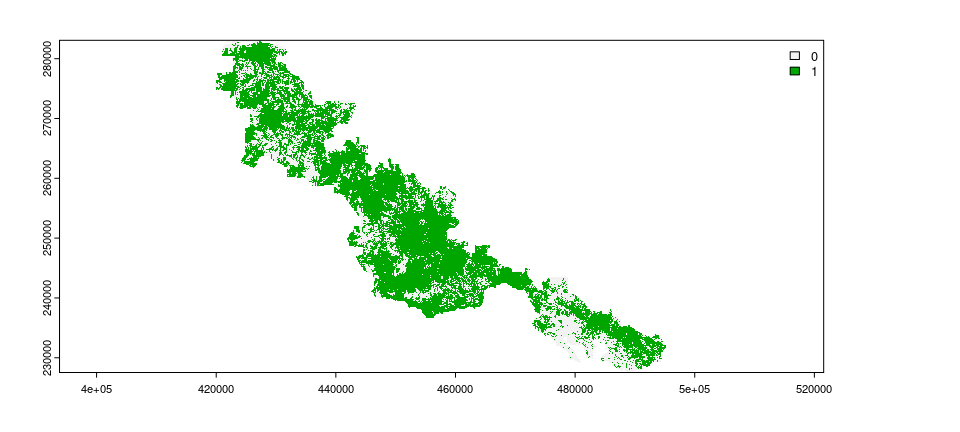
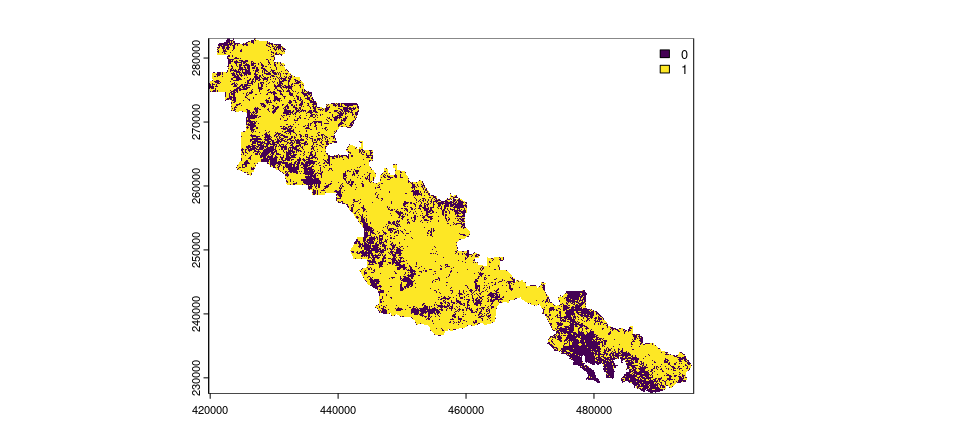
Update README and actions

diff --git a/README.md b/README.md
@@ -15,6 +15,7 @@ Status](https://codecov.io/github/dimitri-justeau/restoptr/coverage.svg?branch=m
 [![Downloads](https://cranlogs.r-pkg.org/badges/restoptr)](https://CRAN.R-project.org/package=restoptr)
 
 <p id="logo-credit" align="right">
+
 Logo by Camille Salmon
 </p>
 
@@ -289,6 +290,7 @@ print(problem)
     ## ----------------------------------------------------------------- 
     ## original habitat:     habitat_hi_res.tif 
     ## aggregation factor:   16 
+    ## aggregation method:   lossy 
     ## habitat threshold:    0.7 
     ## existing habitat:     in memory 
     ## restorable habitat:   in memory 
@@ -319,7 +321,7 @@ existing habitat, or (`3`) selected as a priority area for restoration.
 solution <- solve(problem)
 ```
 
-    ## Good news: the solver found 1 solution statisfying the constraints that was proven optimal ! (solving time = 0.97 s)
+    ## Good news: the solver found 1 solution statisfying the constraints that was proven optimal ! (solving time = 0.16 s)
 
 ``` r
 # preview solution
@@ -358,12 +360,12 @@ Finally, we can access additional information on the solution (with the
 get_metadata(solution, area_unit = "ha")
 ```
 
-    ##     min_restore total_restorable nb_planning_units nb_components     diameter
-    ## 1 219.3772 [ha]    219.3772 [ha]                15             3 2280.175 [m]
-    ##   optimality_proven search_state solving_time  mesh_initial          mesh
-    ## 1              TRUE   TERMINATED        0.944 13667.84 [ha] 14232.66 [ha]
-    ##       mesh_best
-    ## 1 14232.66 [ha]
+    ##     min_restore total_restorable nb_planning_units nb_components nb_patches
+    ## 1 219.3772 [ha]    219.3772 [ha]                15             3         85
+    ##       diameter optimality_proven search_state solving_time  mesh_initial
+    ## 1 2280.175 [m]              TRUE   TERMINATED        0.157 13667.84 [ha]
+    ##            mesh     mesh_best
+    ## 1 14232.66 [ha] 14232.66 [ha]
 
 This has just been a short taster of the package. For an extended
 tutorial on using the package, please refer to the vignette.
